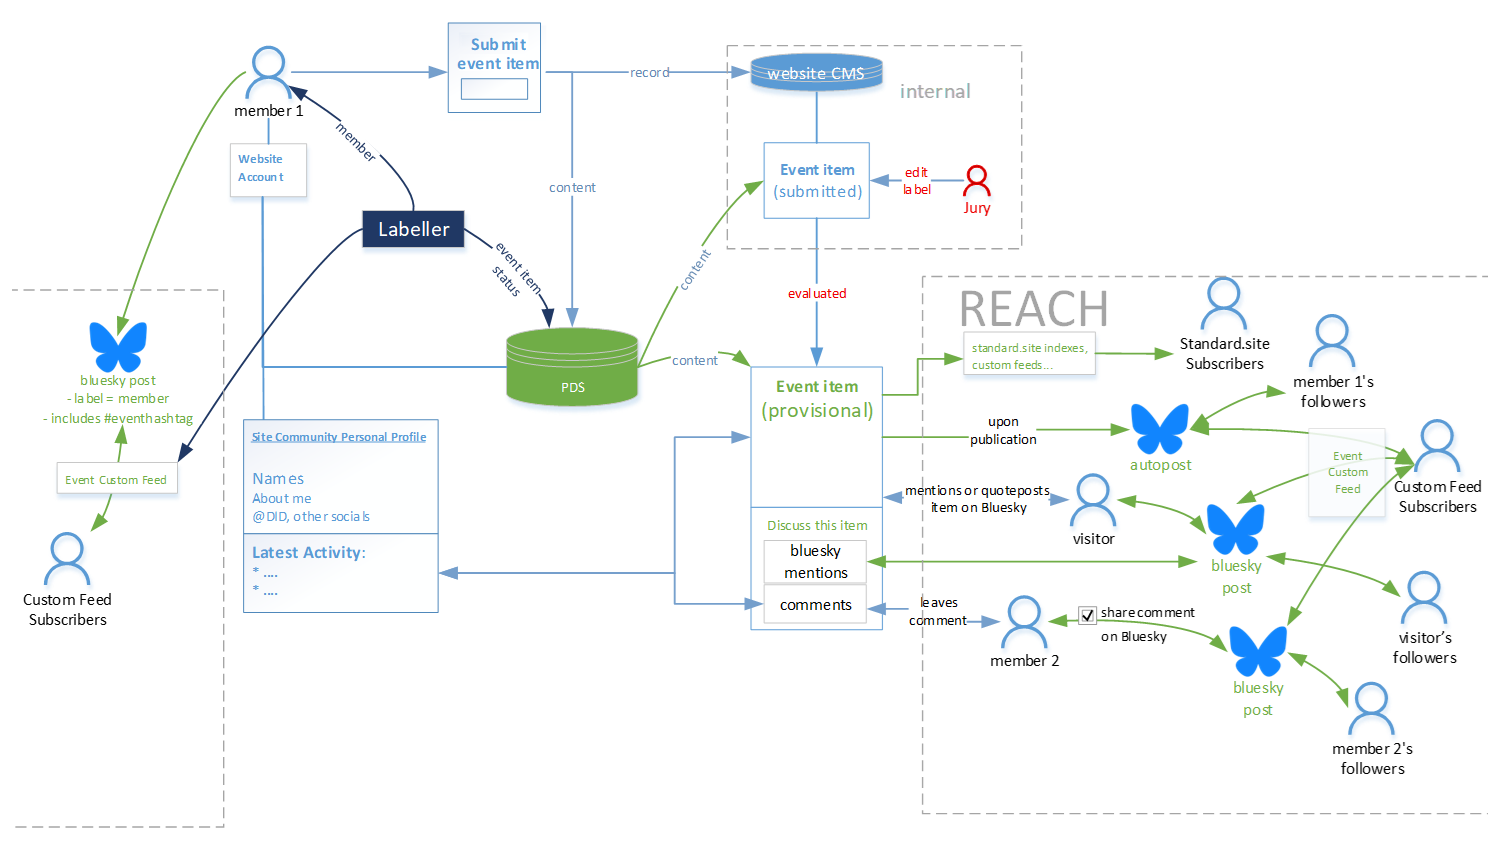
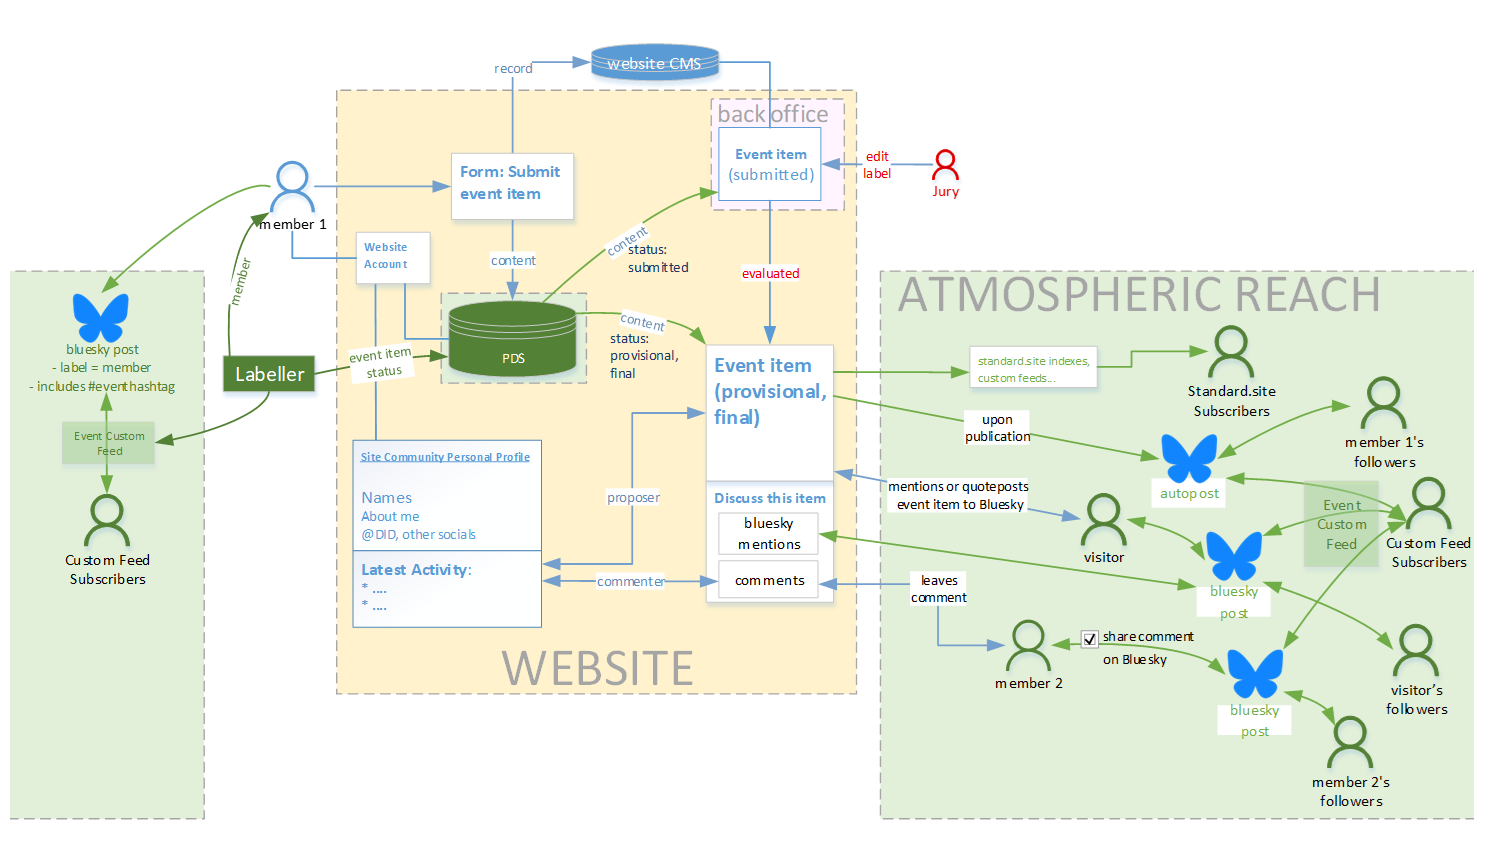
v4 event cocreation big tweak

diff --git a/Co-creating your physical event with your online community.md b/Co-creating your physical event with your online community.md
@@ -1,7 +1,7 @@
-![[event-cocreation-leaflet-reach-v3.png]]
+![[focus-reach-v4.png]]
 # Event co-creation on the Atmosphere
 
-**Exploring what the ATmosphere offers event co-creation, focusing on what [standard.site](https://standard.site/) offers.**
+**Integrating your event co-creation community with the Atmosphere brings you increased engagement and improved reach with a substantially simpler website.**
 
 *(Notes: This is version 4 of this post. As [explained here,](https://mathewlowry.medium.com/two-wiki-authors-and-a-blogger-walk-into-a-bar-7106c8376c6e) I sometimes publish multiple, evolving versions of "experimental" posts in the hope that constructive comments will help me develop them further. More details and version control in the footer.)*
 
@@ -38,11 +38,11 @@ As set out in the following sub page, this approach can work extremely well - fo
 
 ## Into the Atmosphere: key challenges
 
-**Simplify your CMS *and* amplify community engagement *and* content visibility?** 
+**How to simplify your CMS *and* amplify community engagement *and* content visibility.** 
 
 I've built websites with event co-creation several times since 2002. Each time, all of the interactivity was built into the website's content management system, which was as a result pretty complex.
 
-Today I'm exploring if and how the website could integrate ATProto to both simplify the CMS and integrate event co-creation into the global social media conversation, amplifying engagement. And that means meeting two challenges.
+Today I'm exploring how integrating ATProto could both simplify the CMS and integrate your community activity into the global social media conversation on the Atmosphere, amplifying engagement and reach. It means meeting three challenges.
 ### Identity Crisis?
 
 **What about users who don't have a ATProto identity?**
@@ -64,44 +64,41 @@ This is therefore best for organisations who have decided to integrate ATproto i
 
 Moreover, you *won't* need to publish every single page of your website onto the Atmosphere - you simply decide which content is published using an ATproto lexicon.
 
-That sounds challenging, until you realise that the technology already exists and is in use on multiple sites: **standard.site**. As a developer who discovered it less than 2 weeks before writing this put it:
+That sounds challenging, until you realise that the technology already exists and is in widespread use: **standard.site**. As Steve Dylan put it:
 
 > "Within a week, my site had actually turned ATProto into a CMS. I could make posts, update them, or delete them, and all the while these updates are broadcasted to a network that anyone could index" - [Standard.site: the Publishing Gateway](https://stevedylan.dev/posts/standard-site-the-publishing-gateway/) (Steve Dylan)
 
-Steve shows how flexible and extensible the basic standard.site architecture is by adding a new lexicon for comments. Other developers have done something similar (eg [First thoughts on integrating with standard.site](https://isaaccorbrey.com/ramblings/first-thoughts-on-integrating-with-standard-site)).
-
+Steve shows how flexible and extensible the basic standard.site architecture is by adding a new lexicon for comments. Other developers have done something similar (eg [First thoughts on integrating with standard.site](https://isaaccorbrey.com/ramblings/first-thoughts-on-integrating-with-standard-site), # Isaac Corbrey).
 ### Handling Public Data
 
 **But isn't everything on the Atmosphere public?**
 
-Yes, although in Vancouver I look forward to hearing a lot more about [permissioned data](https://myhub.ai/@mathewlowry/?tags=permissioned+data), which should unlock massive new opportunities for communities within the Atmosphere.
+Yes, although in Vancouver I look forward to hearing a lot more about [permissioned data](https://myhub.ai/@mathewlowry/?tags=permissioned+data), which should unlock massive new opportunities for communities within the Atmosphere. But is it needed?
 
-In the previous version of this post, I assumed that *submitted* event items must be stored only in the website CMS, where the event jury can see them. When they give one provisional status, it would be pushed to the users' PDS and published from there onto the website for the community to discuss.
+In the previous version of this post, I assumed that *submitted* event items must be stored only in the website CMS, where only the event jury can see them. When they give an event item provisional or final status, it would then be pushed to the users' PDS and published from there onto the website for the community to discuss.
 
-It was [Emelia](https://bsky.app/profile/thisismissem.social) who suggested a far cleaner approach: 
-
-* the event website runs a **labeller** — a lightweight ATProto service — that publishes status changes as protocol-level labels attached to each event item. 
-* the website displays only event items with provisional or approved labels.
+It was [Emelia](https://bsky.app/profile/thisismissem.social) who suggested a far cleaner approach, with all event items stored on the users' PDSs, a labeller used to manage the status
+of the event items, and the website CMS displaying only event items with provisional or approved labels to website visitors.
 
 In fact, according to Emelia, a CMS is really not needed at all: event co-creation could simply be supported purely by an Atmosphere app. But event co-creation is best embedded within a much larger community strategy, and besides I have to leave something for version 5 of this post ;)
-## Benefits: better reach with a simpler website 
+## Results: better reach & engagement with a simpler website 
 
-**In this version of this post, I've only explored how this could look using the features offered by the [leaflet.pub ](http://leaflet.pub/)implementation of standard.site. They are considerable.** 
-
-Sub-pages covering other implementations will follow if/when I find the time, but for now check out [[Event co-creation using Leaflet]] to better understand this image:
+In this version of this post, I've only explored how this could look using the features offered by the [leaflet.pub ](http://leaflet.pub/)implementation of standard.site. Sub-pages covering other implementations will follow if/when I find the time, but for now check out [[Event co-creation using Leaflet]] to better understand this image:
 
 ![[event-cocreation-leaflet-reach-v4.png]]
 
-Briefly, the above image shows how an event item in your website's provisional programme is created, labelled and published using standard.site, and connected to users across the Atmosphere via:
+Briefly, the above image shows:
 
-- multiple standard.site and Bluesky apps
-- the social graph of the event items' original author 
-- the social graph of anyone who comments on it on the website, or shares it to Bluesky
-- the event's custom feed.
+* (*centre*) how an event item in your website's provisional programme is created, labelled and published using a CMS, standard.site, your users' PDSs and a labeller. 
+* (*left* and *right*) how the event item is connected to users across the Atmosphere via:
+	- multiple standard.site and Bluesky apps
+	- the social graph of the event items' original author 
+	- the social graph of anyone who comments on it on the website, or shares it to Bluesky
+	- the event's custom feed(s).
 
-Moreover, your audience can easily subscribe to only those event items that interest them, following them via either Bluesky or any standard.site app.
+This improved "Atmospheric Reach" is despite the fact that your website has become massively simpler than typical event co-creation websites, because you're farming out most of the interactive features to the Atmosphere.
 
-So getting better reach for the conversations on your website becomes easier while your website itself becomes massively simpler. All because you're farming out most of the interactive features to the Atmosphere.
+Your audience, for example, can easily subscribe to only those event items that interest them, following them via either Bluesky or any standard.site app, without you having to build sophisticated site- and email-based notification systems. And the site-based commenting system is now purely optional.
 
 **→ Dig deeper:** [[Event co-creation using Leaflet]].
 

diff --git a/permanent versions/Event co-creation using Leaflet.md b/permanent versions/Event co-creation using Leaflet.md
@@ -81,22 +81,21 @@ Despite offering additional features I've never seen on an event co-creation web
 * a CMS which can publish using standard.site 
 * a labeller: a lightweight ATProto service that attaches signed status labels to event items. 
 
-**The labeller is the key change between this and the previous version of this post.** The previous approach reflected the CMS-oriented paradigm I picked up from building websites for over 30 years, and involved storing submitted proposals in the website CMS, pushing them to the user's PDS only when organisers promoted it to provisional status. 
+**The labeller is the key change between this and the previous version of this post.** That previous approach, reflected over 30 years' experience in building increasingly complex websites with increasingly powerful CMSs, involved first storing Submitted proposals in the CMS, and pushing them to the user's PDS only when organisers gave it Provisional status. 
 
-But this is incompatible with the core ATProtocol principle of content sovereignty, so instead we put the event items onto the proposer's PDS from the outset. What changes is the label attached to it by the Jury, with the event website's CMS reading that label to decide what to display, where and to whom.
+But this is incompatible with the core ATProtocol principle of content sovereignty, so now we put the event items onto the proposer's PDS from the outset. What changes is the label attached to it by the Jury, with the event website's CMS reading that label to decide what to display, where and to whom.
 
 The following diagram shows how an event item in your website's provisional programme is created, labelled and published using standard.site and an event labeller:
 
 ![[event-cocreation-stdsite-v4.png]]
-
 It shows user account creation and event item submission workflows:
 
 * a user joins the community, becoming **Member 1** (*top left*). If s/he already has a DID, or opts in for getting one:
 	* the DID is included in their public profile and the site CMS
 	* s/he is given a label, so that anyone subscribing to the Labeller knows that she is a member of this community (the label is also used in the custom feed, below)
-* Member 1 uses a site form (*top*) to **propose an event item**: a record is created in the CMS, but the content itself is published on Member 1's PDS (*centre*) as an event item with the label "**`event/proposed`**". Note: 
-	* the website does not show this content to anyone, although it is all publicly visible via the user's PDS. 
-	* the Organising Jury *can* view this content via a dedicated CMS-driven page which allows them to change the label
+* Member 1 uses a site form to **propose an event item**: a record is created in the CMS, but the content itself is published on Member 1's PDS (*centre*) as an event item with the label "**`event/proposed`**". Note: 
+	* the website does not show this content to anyone, although it is accessible visible on the user's PDS
+	* the Organising Jury *can* view this content via a dedicated CMS-driven page which allows them to change the label (*top right*)
 * The Organisers' Jury assesses Member 1's proposal, likes it, and changes the item's label: to "**`event/provisional`**". This makes the event item appear in the Provisional programme, visible to anonymous website visitors (*bottom right*).
 
 Some final notes (not shown in image):
@@ -111,7 +110,7 @@ The following diagram shows what can happen next, now that the event item is vis
 
 ![[event-cocreation-leaflet-reach-v4.png]]
 
-Under "REACH" (*bottom-right*):
+Under "Atmospheric Reach" (*right*):
 
 * as soon as the event item appears in in the Provisional programme:
 	* it also appears in standard.site indexers, as well as event subscribers' feeds on across both standard.site *and* Bluesky apps
@@ -124,7 +123,7 @@ Under "REACH" (*bottom-right*):
 	* if they have a DID, they can opt to auto-share that comment to their Bluesky followers; 
 	* this post *also* appears in the event's custom feed.
 
-There's a bit "REACH" to the *left*: because Members are labelled as community members, any of their Bluesky posts appear in the event's custom feed if they *also* includes the event hashtag (and the member opted in).
+There's a bit more Atmospheric Reach to the *left*: because Members are labelled as community members, any of their Bluesky posts appear in the event's custom feed if they *also* includes the event hashtag (and the member opted in).
 
 **Up to:** [[Co-creating your physical event with your online community|Event co-creation on the Atmosphere]]
 
